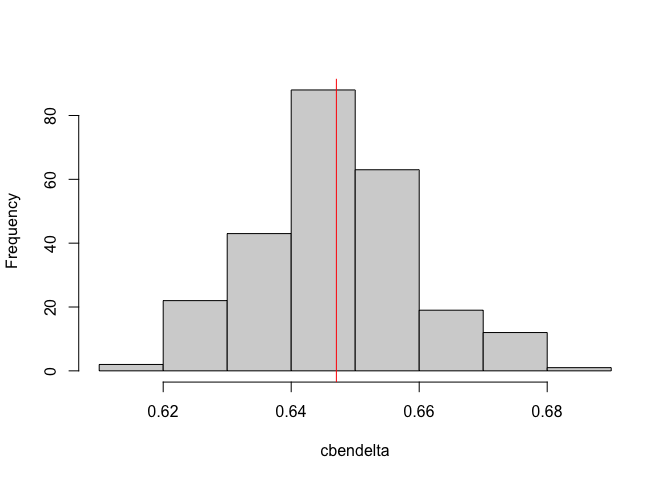
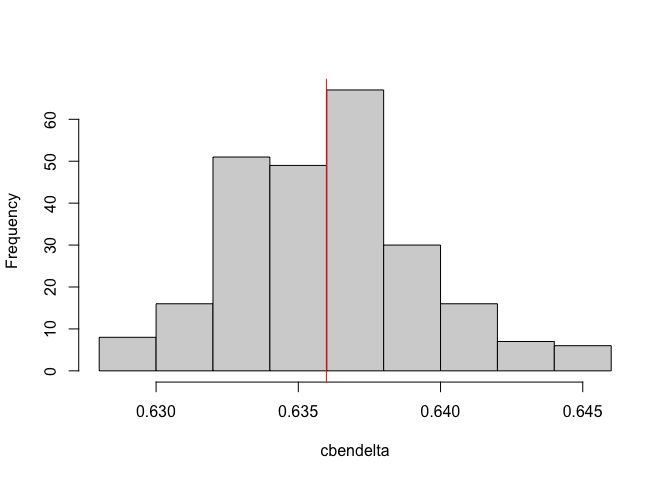
Update cal() to allow for evaluation in the control arm, treated arm, or both. Updated documentation and README to reflect this.

diff --git a/README.md b/README.md
@@ -1,5 +1,5 @@
 
-<!-- README.md is generated from README.Rmd. Please edit that file -->
+<!-- README.md is generated from README.Rmd -->
 
 # iteval
 
@@ -8,7 +8,7 @@
 
 The goal of iteval is to ease implementation of the discrimination and
 calibration measures for predicted individualized treatment effect as
-described by Hoogland et al. 2022 \[yet to insert DOI\].
+described by Hoogland et al. \[yet to insert DOI\].
 
 ## Installation
 
@@ -37,7 +37,7 @@ basic logistic regression model.
 ``` r
 # generate some  data
 set.seed(123) # for replicability
-n <- 250
+n <- 500
 x <- rnorm(n) # covariate
 trt <- rbinom(n, 1, .5) # treatment
 beta <- c(0, 1, 1, -.75) # coefficients
@@ -56,14 +56,18 @@ treated condition (`y1hat`) and predicted ite’s (`deltahat`).
 control.data <- cbind(1, x, 0, 0) 
 treated.data <- cbind(1, x, 1, x)
 
-# under the control condition
+# prediction under the control condition
 y0hat <- plogis(control.data %*% coef(mod))
 
-# under the treated condition
+# prediction under the treated condition
 y1hat <- plogis(treated.data %*% coef(mod))
 
 # and their difference
 deltahat <- y1hat - y0hat
+
+# true outcome probabilities given data generating mechanism
+p0 <- plogis(control.data %*% c(0, 1, 1, -.75))
+p1 <- plogis(treated.data %*% c(0, 1, 1, -.75))
 ```
 
 Subsequently, we apply the performance measures in the simulated data.
@@ -88,7 +92,7 @@ All is in place now. The treatment assignments are as follows:
 table(trt)
 #> trt
 #>   0   1 
-#> 116 134
+#> 251 249
 ```
 
 Hence, 1:1 matching excluded some individuals and repeated subsampling
@@ -98,7 +102,7 @@ of the larger group is used more of the data (`nresample=100`).
 # cbendelta
 res <- cbendelta(deltahat, y, ind.A, ind.B, nresample = 250, get.all=TRUE)
 mean(res) # cbendelta
-#> [1] 0.6470594
+#> [1] 0.6359874
 hist(res, xlab="cbendelta", main=""); abline(v=mean(res), col="red")
 ```
 
@@ -109,7 +113,7 @@ hist(res, xlab="cbendelta", main=""); abline(v=mean(res), col="red")
 # cbeny0
 res <- cbeny0(y0hat, y1hat, y, ind.A, ind.B, "y0hat", nresample = 250, get.all=TRUE)
 mean(res) # cbendelta
-#> [1] 0.6463172
+#> [1] 0.6424884
 hist(res, xlab="cbeny0", main=""); abline(v=mean(res), col="red")
 ```
 
@@ -119,27 +123,29 @@ hist(res, xlab="cbeny0", main=""); abline(v=mean(res), col="red")
 
 # mbcb (does not depend on matching)
 mbcb(y0hat, y1hat)
-#> [1] 0.660821
+#> [1] 0.6318088
+
+# 'true' mbcb for this model (possible since sim setting)
+mbcb(y0hat, y1hat, y0hat.updated = p0, y1hat.updated = p1)
+#> [1] 0.6266713
 ```
 
 ### Calibration performance
 
 ``` r
-cal(y0hat, y1hat, y, ind.B)
+# Example 'true' calibration (possible since sim setting)
+# otherwise, cal() takes estimates p0 and p1 based on 
+# independent data.
+(cal <- cal(y0hat,y1hat,y,trt,p0,p1,type="both"))
 #> 
-#> Call:  stats::glm(formula = y[ind.B] ~ I(stats::qlogis(y1hat[ind.B]) - 
-#>     stats::qlogis(y0hat[ind.B])), family = "quasibinomial", offset = stats::qlogis(y0hat[ind.B]))
+#> Call:  stats::glm(formula = p01 ~ 0 + Z + deltahatlpstar, family = "quasibinomial", 
+#>     offset = os)
 #> 
 #> Coefficients:
-#>                                                  (Intercept)  
-#>                                                   -1.821e-16  
-#> I(stats::qlogis(y1hat[ind.B]) - stats::qlogis(y0hat[ind.B]))  
-#>                                                    1.000e+00  
+#>              Z  deltahatlpstar  
+#>        0.09199         0.90527  
 #> 
-#> Degrees of Freedom: 133 Total (i.e. Null);  132 Residual
-#> Null Deviance:       162.8 
-#> Residual Deviance: 144.8     AIC: NA
+#> Degrees of Freedom: 500 Total (i.e. Null);  498 Residual
+#> Null Deviance:       166.4 
+#> Residual Deviance: 1.083e-14     AIC: NA
 ```
-
-As expected calibration in the development data returns a 0 intercept
-and slope 1.
